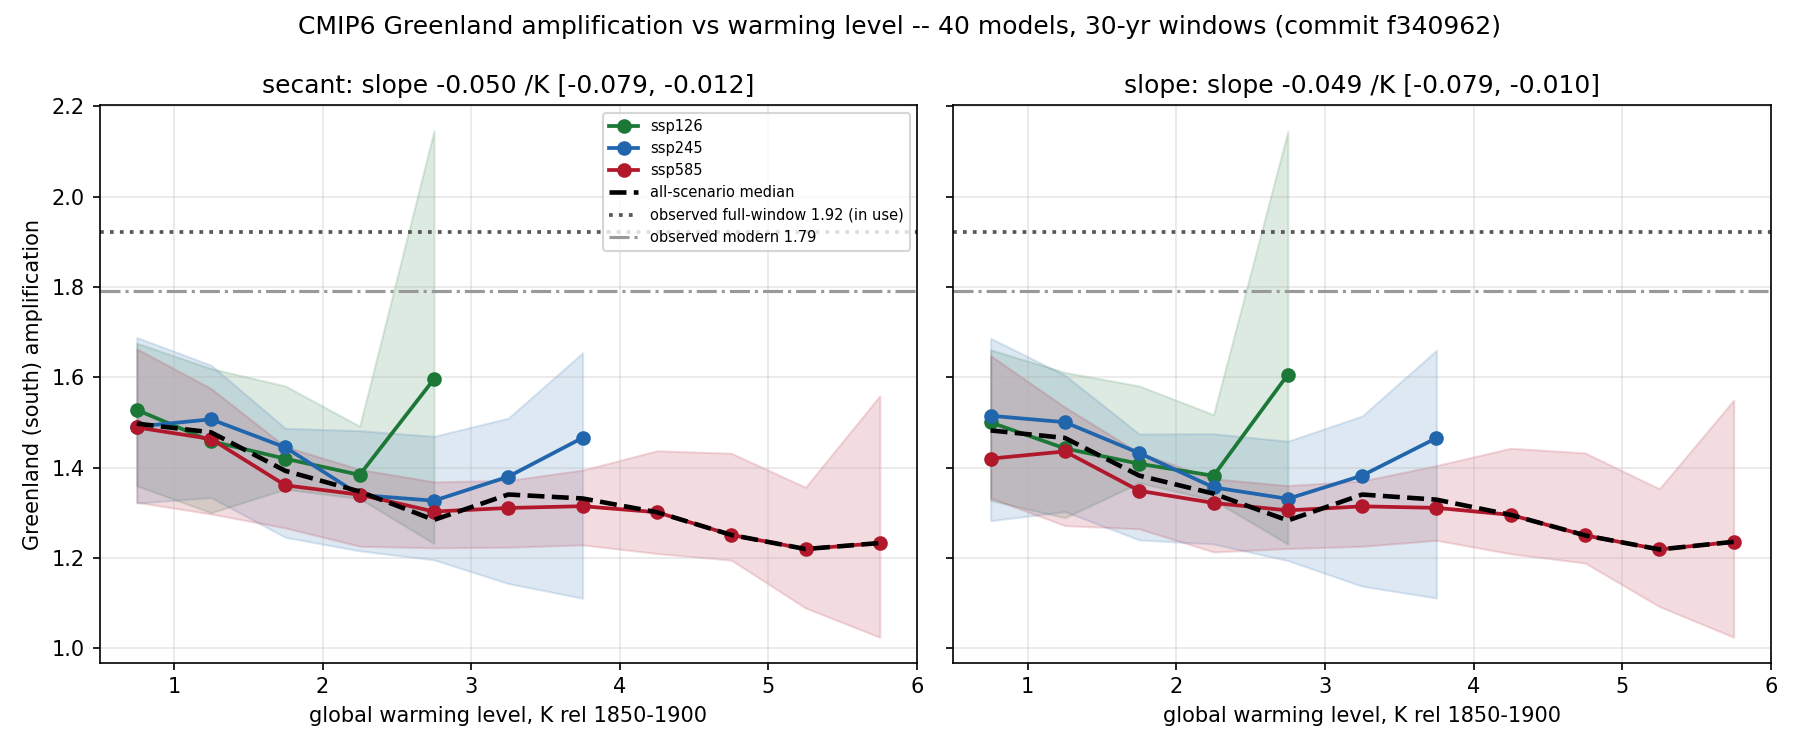
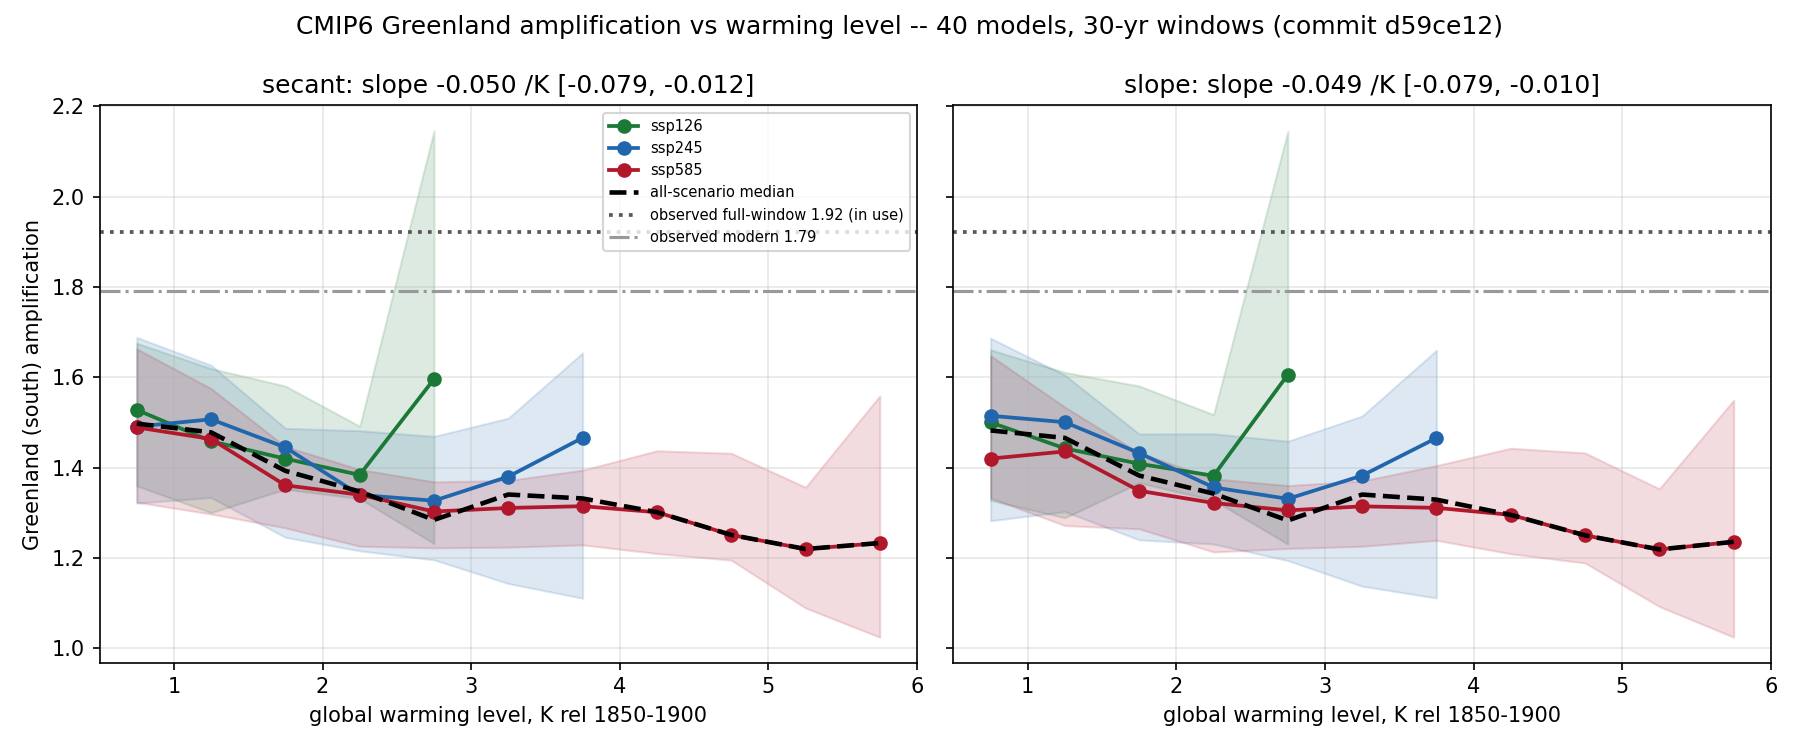
Land the tier-2b south re-verification byproduct (provenance hash only)
These three are the direct byproduct of 8d52288's south re-verify, which the
handoff already recorded as "only the provenance commit hash moved": the
summary and fullcurve meta differ solely in the commit field (f340962 ->
d59ce12) and the figure is a byte-level regeneration. Numbers unchanged.

Not included, and still deliberately carried: figures/diag_gis_regional_driver.png
(regenerated Aug 10) and outputs/mcmc/overdispersed_starts.csv (all 4 start
rows replaced Aug 17, backups at .pre_extc_bak/.pre_l12_bak). The latter
changes what a future chain starts from, so it is Marcus's call, not a
byproduct.

Changed region(s): [[0.1556, 0.0, 0.84, 0.0613]]

diff --git a/outputs/diag_gis_amp_cmip6_summary.md b/outputs/diag_gis_amp_cmip6_summary.md
@@ -1,6 +1,6 @@
 # CMIP6 Greenland amplification vs warming level (zone = south)
 
-- commit `f340962`; 40 CMIP6 models; scenarios ['ssp126', 'ssp245', 'ssp585']
+- commit `d59ce12`; 40 CMIP6 models; scenarios ['ssp126', 'ssp245', 'ssp585']
 - window 30 yr, anomalies rel 1850-1900, windows dropped if centre < 1950 or mean dT_glob < 0.5 K
 - bootstrap over models, 2000 resamples, seed 2026
 - observed prior for comparison: south/full **1.922** (the value Ladrillo 1.0 uses), south/modern 1.792
